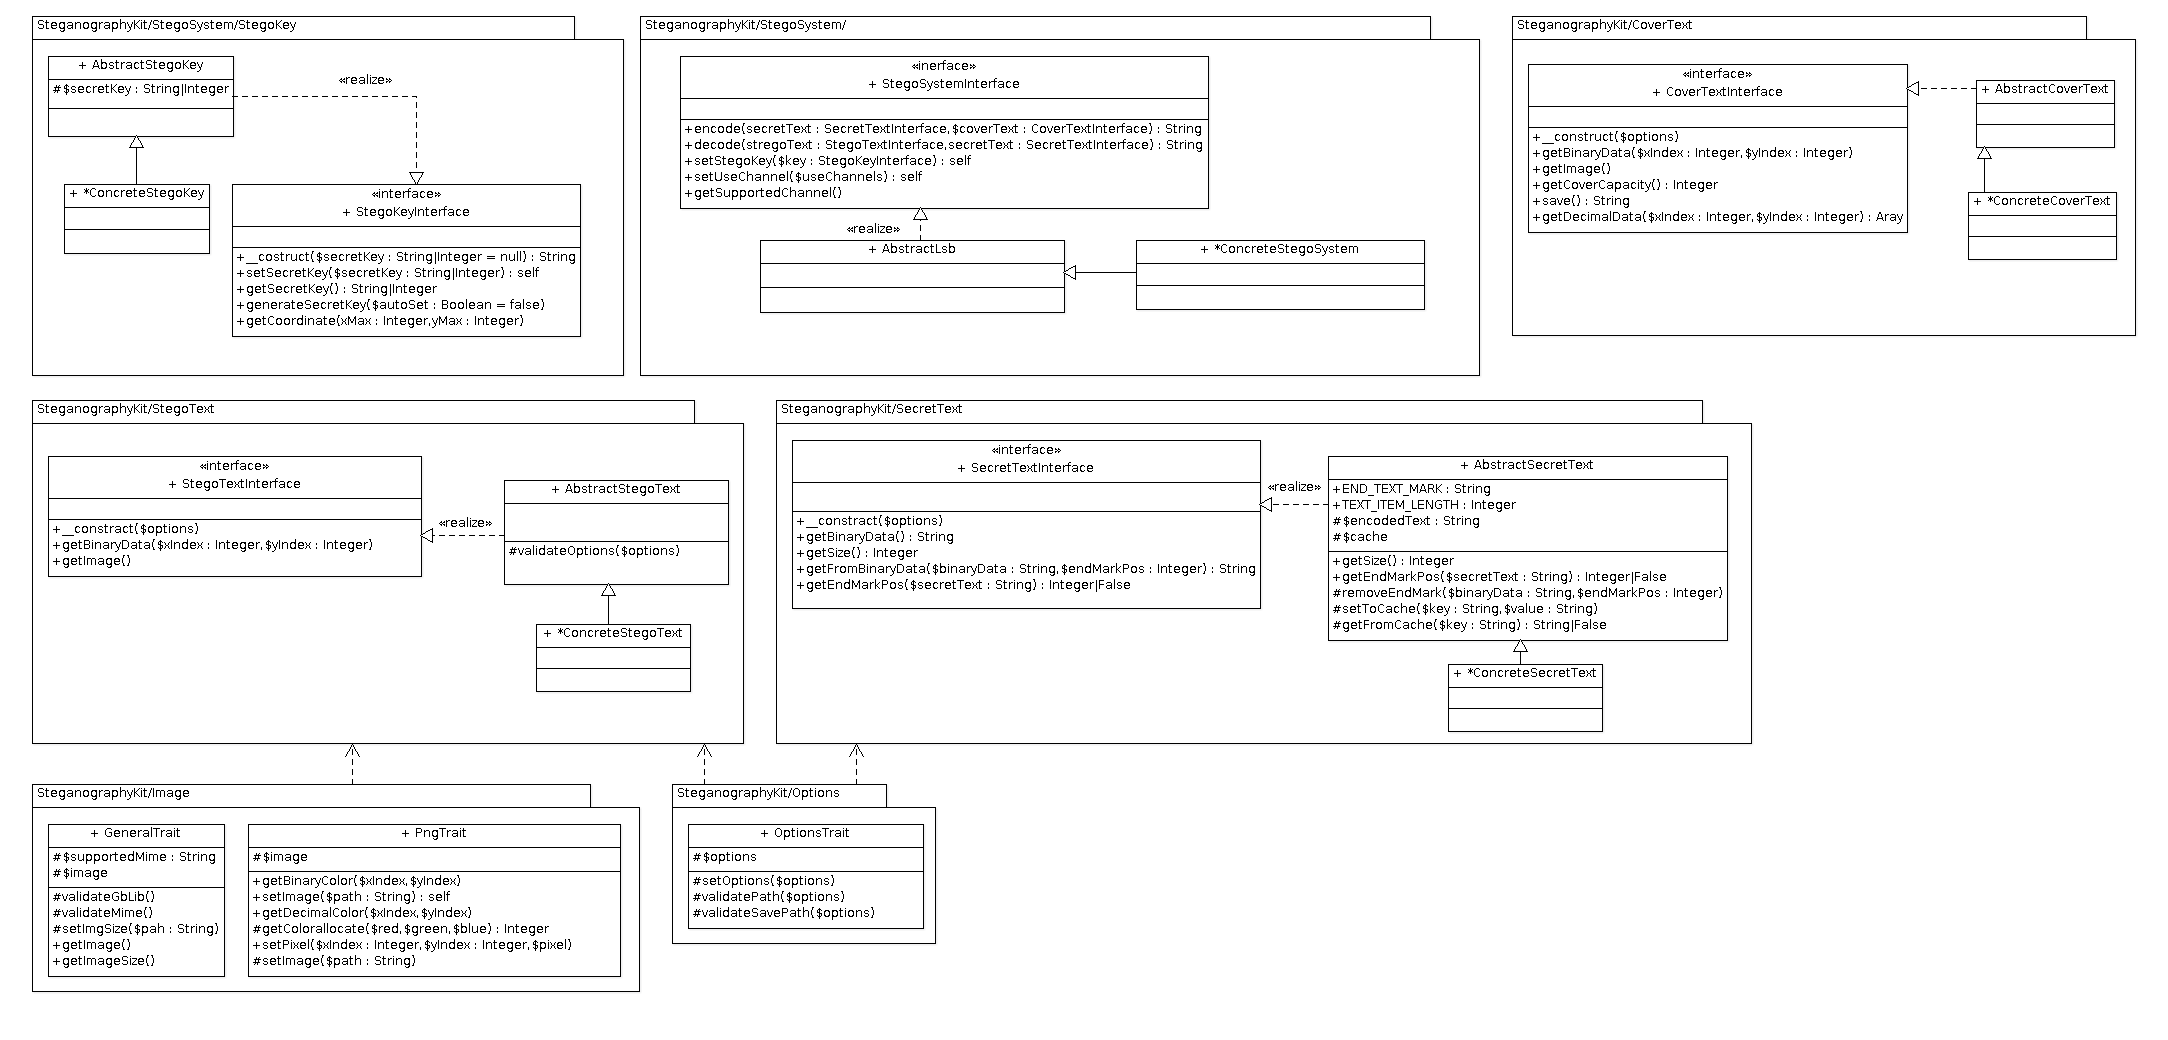
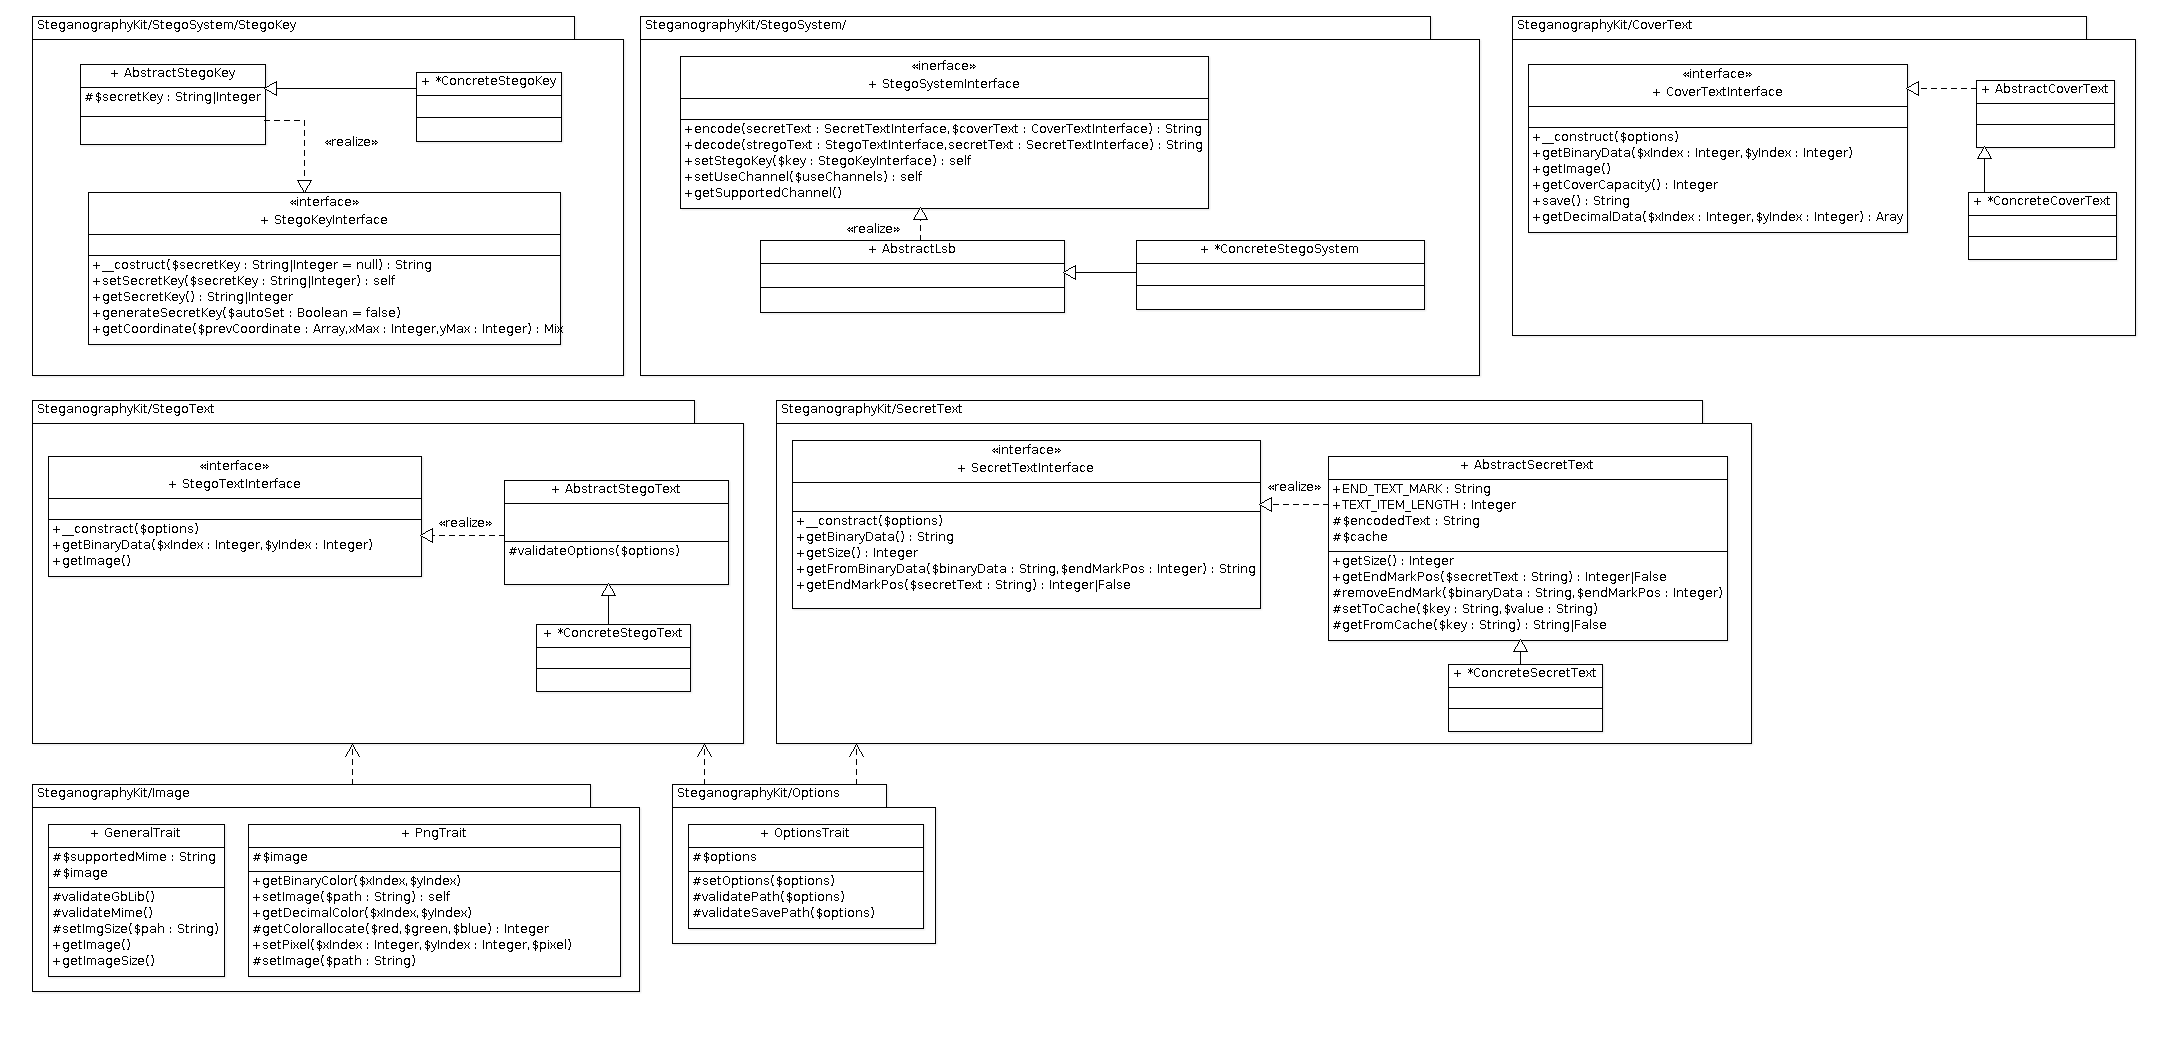
Refactored StegoKey and SecretKey steganography

Changed region(s): [[0.0309, 0.1846, 0.2781, 0.3385], [0.0309, 0.0615, 0.1236, 0.1231], [0.1854, 0.0615, 0.2472, 0.0923]]

diff --git a/src/SteganographyKit/StegoKey/PseudoRandomKey.php b/src/SteganographyKit/StegoKey/PseudoRandomKey.php
@@ -25,14 +25,14 @@ class PseudoRandomKey extends AbstractStegoKey
     /**
      * Max number of repeat coordinate for for trying get new one
      */
-    const MAX_COORDINAT_REPEAT = 20;
+    const MAX_COORDINAT_REPEAT = 10;
     
     /**
      * Container of coordinats that have been generated before
      * 
      * @var array 
      */
-    protected $coordinats = array();
+    protected $coordinates = array();
     
     /**
      * Sets secretKey
@@ -47,12 +47,7 @@ class PseudoRandomKey extends AbstractStegoKey
             throw new Exception('Invalid secretKey: "' . $secretKey . '"');
         }
         
-        $this->secretKey    = $secretKey;
-        // reset coordinats container
-        $this->coordinats   = array();
-        
-        // set seet to random generator
-        mt_srand($secretKey);
+        $this->secretKey = $secretKey;
         
         return $this;
     }
@@ -79,33 +74,35 @@ class PseudoRandomKey extends AbstractStegoKey
     /**
      * Geta coordinate
      * 
+     * @param array   $prevCoordinate
      * @param integer $xMax
      * @param integer $yMax
      * @return array - array('x' => 10, 'y' => 5)
      * @throw Exception
      * @FIXME It's possible that secretkey was not set
      */
-    public function getCoordinate($xMax, $yMax)
-    {        
-        $result = false;
+    public function getCoordinate(array $prevCoordinate, $xMax, $yMax)
+    {   
+        // reset coordinate
+        if ($prevCoordinate['x'] === 0 && $prevCoordinate['y'] === 0) {
+            $this->resetCoordinate();           
+        }
+        
+        // generate
+        $result = null;
         $i      = 0;
-        while ($i < self::MAX_COORDINAT_REPEAT && $result === false) {
+        while (is_null($result) && $i < self::MAX_COORDINAT_REPEAT) {
             $x = mt_rand(0, $xMax);
             $y = mt_rand(0, $yMax);
             
-            // check if it's new one
-            if(!key_exists($x, $this->coordinats) 
-                || !in_array($y, $this->coordinats[$x])
-            ) {
-                $result = array('x' => $x,'y' => $y);
-                $this->coordinats[$x][] = $y;
+            if($this->validateCoordinate($x, $y) === true) {
+                $result = array('x' => $x, 'y' => $y);    
             }
-                        
             $i++;
         }
          
-        if ($result === false) {
-            throw new Exception('Coordinat generation was failed. The ' 
+        if (is_null($result)) {
+            throw new Exception('Coordinate generation was failed. The ' 
                 . self::MAX_COORDINAT_REPEAT . ' times to get new one was used.');
         }
         
@@ -125,9 +122,39 @@ class PseudoRandomKey extends AbstractStegoKey
         }
         
         $length = strlen($secretKey);
-        $result =  $length >= self::MIN_SECRET_KEY_LENGTH && $length <= self::MAX_SECRET_KEY_LENGTH;
+        $result = $length >= self::MIN_SECRET_KEY_LENGTH && $length <= self::MAX_SECRET_KEY_LENGTH;
      
         return $result;
     }
+    
+    /**
+     * Validate coordinate
+     * 
+     * @param integer $x
+     * @param integer $y
+     * @return boolean - true if vaild false otherwise
+     */
+    protected function validateCoordinate($x, $y) 
+    {
+        if (key_exists($x, $this->coordinates) && in_array($y, $this->coordinates[$x])) {
+            return false;
+        } 
+        $this->coordinates[$x][] = $y;
+        
+        return true;
+    }
+    
+    /**
+     * Reset pseudo-random coordinate sequence
+     */
+    protected function resetCoordinate()
+    {
+        $secretKey = $this->getSecretKey();
+        
+        // reset coordinats container
+        $this->coordinates   = array();
+        
+        // set seet to random generator
+        mt_srand($secretKey);
+    }
 }
-

diff --git a/tests/src/SteganographyKit/StegoSystem/BaseLsbTest.php b/tests/src/SteganographyKit/StegoSystem/BaseLsbTest.php
@@ -9,6 +9,9 @@
 namespace SteganographyKit\StegoSystem;
 
 use SteganographyKit\BaseTest;
+use SteganographyKit\SecretText\Ascii;
+use SteganographyKit\CoverText\PngImg;
+use SteganographyKit\StegoText\PngImg as StegoTextPngImg;
 
 class BaseLsbTest extends BaseTest 
 {    
@@ -28,6 +31,39 @@ class BaseLsbTest extends BaseTest
         'path'      => 'original_200_200.png',
         'savePath'  => 'stego/original_%s.png'
     ); 
+    
+    /**
+     * Base Encode Decode
+     * 
+     * @param array                 $optionsCoverText
+     * @param array                 $optionsSecretText
+     * @param array                 $useChannel
+     * @param StegoSystemInterface  $stegoSystem
+     */
+    protected function encodeDecode(array $optionsCoverText, 
+        array $optionsSecretText, array $useChannel, StegoSystemInterface $stegoSystem    
+    ) {           
+        // encode
+        $optionsCoverText['path']       = $this->getDataPath($optionsCoverText['path']);
+        $optionsCoverText['savePath']   = dirname($optionsCoverText['path']) . '/'
+            . $optionsCoverText['savePath'];
+               
+        $coverText      = new PngImg($optionsCoverText);  
+        $secretText     = new Ascii($optionsSecretText);
+            
+        $stegoImgPath   = $stegoSystem->setUseChannel($useChannel)
+            ->encode($secretText, $coverText);
+        
+        $this->assertTrue(file_exists($stegoImgPath));
+        
+        // decode
+        $stegoText  = new StegoTextPngImg(array(
+            'path' => $stegoImgPath
+        ));
+        $decodeText = $stegoSystem->decode($stegoText, new Ascii());
+        
+        $this->assertEquals($optionsSecretText['text'], $decodeText);
+    }
     
     /**
      * Generate data provider

diff --git a/tests/src/SteganographyKit/StegoSystem/SecretLsbTest.php b/tests/src/SteganographyKit/StegoSystem/SecretLsbTest.php
@@ -34,7 +34,7 @@ class SecretLsbTest extends BaseLsbTest
      * 
      * @var integer 
      */
-    protected $secretKey = 12345678;
+    protected $secretKey = 1234;
     
     public function setUp() 
     {
@@ -54,28 +54,7 @@ class SecretLsbTest extends BaseLsbTest
     public function testEncodeDecode(array $optionsCoverText, 
         array $optionsSecretText, array $useChannel    
     ) {           
-        // encode
-        $optionsCoverText['path']       = $this->getDataPath($optionsCoverText['path']);
-        $optionsCoverText['savePath']   = dirname($optionsCoverText['path']) . '/'
-            . $optionsCoverText['savePath'];
-               
-        $coverText      = new PngImg($optionsCoverText);  
-        $secretText     = new Ascii($optionsSecretText);
-            
-        $stegoImgPath   = $this->secretLsb->setUseChannel($useChannel)
-            ->encode($secretText, $coverText);
-        
-        $this->assertTrue(file_exists($stegoImgPath));
-        
-        // decode
-        $stegoText  = new StegoTextPngImg(array(
-            'path' => $stegoImgPath
-        ));
-        
-        $this->stegoKey->setSecretKey($this->secretKey);
-        $decodeText = $this->secretLsb->decode($stegoText, new Ascii());
-        
-        $this->assertEquals($optionsSecretText['text'], $decodeText);
+        $this->encodeDecode($optionsCoverText, $optionsSecretText, $useChannel, $this->secretLsb);
     }
     
     /**

diff --git a/tests/src/SteganographyKit/StegoSystem/PureLsbTest.php b/tests/src/SteganographyKit/StegoSystem/PureLsbTest.php
@@ -71,26 +71,7 @@ class PureLsbTest extends BaseLsbTest
     public function testEncodeDecode(array $optionsCoverText, 
         array $optionsSecretText, array $useChannel    
     ) {           
-        // encode
-        $optionsCoverText['path']       = $this->getDataPath($optionsCoverText['path']);
-        $optionsCoverText['savePath']   = dirname($optionsCoverText['path']) . '/'
-            . $optionsCoverText['savePath'];
-               
-        $coverText      = new PngImg($optionsCoverText);  
-        $secretText     = new Ascii($optionsSecretText);
-            
-        $stegoImgPath   = $this->pureLsb->setUseChannel($useChannel)
-            ->encode($secretText, $coverText);
-        
-        $this->assertTrue(file_exists($stegoImgPath));
-        
-        // decode
-        $stegoText  = new StegoTextPngImg(array(
-            'path' => $stegoImgPath
-        ));
-        $decodeText = $this->pureLsb->decode($stegoText, new Ascii());
-        
-        $this->assertEquals($optionsSecretText['text'], $decodeText);
+        $this->encodeDecode($optionsCoverText, $optionsSecretText, $useChannel, $this->pureLsb);
     }
     
     public function providerDecode() 

diff --git a/tests/src/SteganographyKit/StegoKey/PseudoRandomKeyTest.php b/tests/src/SteganographyKit/StegoKey/PseudoRandomKeyTest.php
@@ -71,7 +71,7 @@ class PseudoRandomKeyTest extends BaseTest
     {
         $this->stegoKey->generateSecretKey(true);
         for ($i = 0; $i < $count; $i ++) {
-            $coordinats = $this->stegoKey->getCoordinate($xMax, $yMax);
+            $coordinats = $this->stegoKey->getCoordinate(['x' => 1, 'y' => 1], $xMax, $yMax);
                         
             $this->assertTrue(is_array($coordinats));
             $this->assertCount(2, $coordinats);
@@ -104,7 +104,7 @@ class PseudoRandomKeyTest extends BaseTest
     public function providerGetCoordinate() 
     {
         return array(
-            array(200, 200, 10)
+            array(2000, 2000, 100)
         );
     }
 }

diff --git a/src/SteganographyKit/StegoSystem/SecretLsb.php b/src/SteganographyKit/StegoSystem/SecretLsb.php
@@ -18,7 +18,7 @@ class SecretLsb extends AbstractLsb
     protected function getNextCoordinate(array $prevCoordinate, $xMax, $yMax) 
     {
         $result = $this->getStegoKey()
-            ->getCoordinate($xMax, $yMax);
+            ->getCoordinate($prevCoordinate, $xMax, $yMax);
         
         return $result;
     }
@@ -54,6 +54,6 @@ class SecretLsb extends AbstractLsb
         $result[$index] = $this->useChannel[0];
         $result[0]      = $this->useChannel[$index];
         
-        return $this->useChannel;
+        return $result;
     }
 }

diff --git a/src/SteganographyKit/StegoSystem/AbstractLsb.php b/src/SteganographyKit/StegoSystem/AbstractLsb.php
@@ -170,7 +170,7 @@ abstract class AbstractLsb implements StegoSystemInterface
         // get original pixel in binary
         $originalPixel = $coverText->getDecimalData($coordinate['x'], $coordinate['y']);
              
-        // modified pixel could not have all chanels
+        // modified pixel could not have all channels
         $modifiedPixel      = $originalPixel;
         $channel            = $this->getChannel($coordinate);
         $secretItemSize     = strlen($secretItem);

diff --git a/src/SteganographyKit/StegoKey/StegoKeyInterface.php b/src/SteganographyKit/StegoKey/StegoKeyInterface.php
@@ -43,10 +43,11 @@ interface StegoKeyInterface
     /**
      * Gets coordinate
      * 
-     * @param integer $xMax
-     * @param integer $yMax
+     * @param array     $prevCoordinate
+     * @param integer   $xMax
+     * @param integer   $yMax
      * @return array - array('x' => 10, 'y' => 5)
      * @throw Exception
      */
-    public function getCoordinate($xMax, $yMax);
+    public function getCoordinate(array $prevCoordinate, $xMax, $yMax);
 }

diff --git a/README.md b/README.md
@@ -3,23 +3,21 @@ SteganographyKit
 
 Introduction
 ------------
-Steganography - is the art and science of hiding information by embedding messages within other, seemingly harmless messages [1].
-SteganographyKit - package of implementation several stegoSystems for image steganography.
-SteganographyKit is used terminology that was described in Christian Cachin [1].
+Steganography is the art and science of hiding information by embedding messages within other, seemingly harmless messages [1].
+SteganographyKit is a package with implementation several stegoSystems for image steganography.
+SteganographyKit is used terminology that was described by Christian Cachin [1].
 
 SteganographyKit contains:
 * Least Significant Bit (LSB) 
   * Pure Steganography 
   * Secret Key Steganography 
 
-Each algorithm of SteganographyKit is well documented and based on research. 
 General overview of Steganography and existing tools described by Sean-Philip Oriyano [3].
 
 Least Significant Bit (LSB)
 ---------------------------
 LSB method is modified least significant bit of coverText to get stegoText. 
 Detailed description with example can be found in [6] or in "Steganography in Depth" section [7].
-LSB is easy to hide information but also easy to reveal.
 
 SteganographyKit has implementation of LSB with such conditions:
 * png image [4] as coverText,
@@ -47,21 +45,18 @@ Additionally it's possible to configurate channel that will be used in algorithm
 * Therefore knowledge what channels are used is like Secret Key. 
 * Some researches use only Blue channel for steganography because that color is less perceived by human eye. 
 Such conclusion is based on experiment [8]. But it should be taken critically because first of all stegoanalyze use computer technique to identify picture 
-with hidden information, the second digital picture is displayed on a screen that has enough light to differ Blue channel as a best choose.
+with hidden information, the second digital picture is displayed on a screen that has enough light.
 
 ### Secret Key Steganography
 For Secret Key Steganography is similar with Pure Steganography but Secret Key is used for encode-decode process [2].
 
 SteganographyKit is used approach described in [2], accordingly them Secret Key is a seed for pseudo-random generator. 
 Such seed is used to create sequences of numbers that shows in what order coverText's pixels should be taken for embed secretText. 
-Moreover all pseudo-random sequences have period 2^(n/2) in average where n is a number of bits in seed.
 
 SteganogrpahyKit implements Secret Key Steganography with such conditions:
 * Max length of secretText is 4 times less in compare with Pure Steganography. It means that only half of pixels are going to modify.
 Such restriction helps to make room for better random distribution of secretText. 
-* SecretKey is a seed for ``mt_srand`` function should have max 8 digits (20 bits) and min 4 digits (10 bits) therefore average period of pseudo-random numbers are 
-2^10. Taking into account that x and y coordinates in CoverText are tokens for pseudo-random sequence so we have at least 2^20 period for coordinates.  
-
+* SecretKey has limit on seed: from 4 to 8 numbers. It uses ``mt_srand`` that has period 2^19937 - 1.
 Of course such conditions should be investigated to find out optimize min parameters.
 
 Encode/Decode algorithm is differ from Pure Steganography by:
@@ -71,6 +66,13 @@ Encode/Decode algorithm is differ from Pure Steganography by:
 If pixel coordinates X and Y and array of channels is ['red', 'green', 'blue'] then 'red' will have (X + Y) % 3 index in channel array the 
 channel that had (X + Y) % 3 would be moved to old red's place. For instance X = 4, Y = 10 them (2 + 10) % 3 = 2 then new channels array is
 ['blue', 'green', 'red']. So using such approach secretText will be randomly spread through coverText bits but also through channels. 
+
+*Note*: If php install has suhosin-patch then it's essential to make configuration
+```
+  suhosin.srand.ignore = Off
+  suhosin.mt_srand.ignore = Off
+```
+Because suhosin-patch by default ignores seed settings for `srand` and `mt_srand`.
  
 UnitTest
 --------
